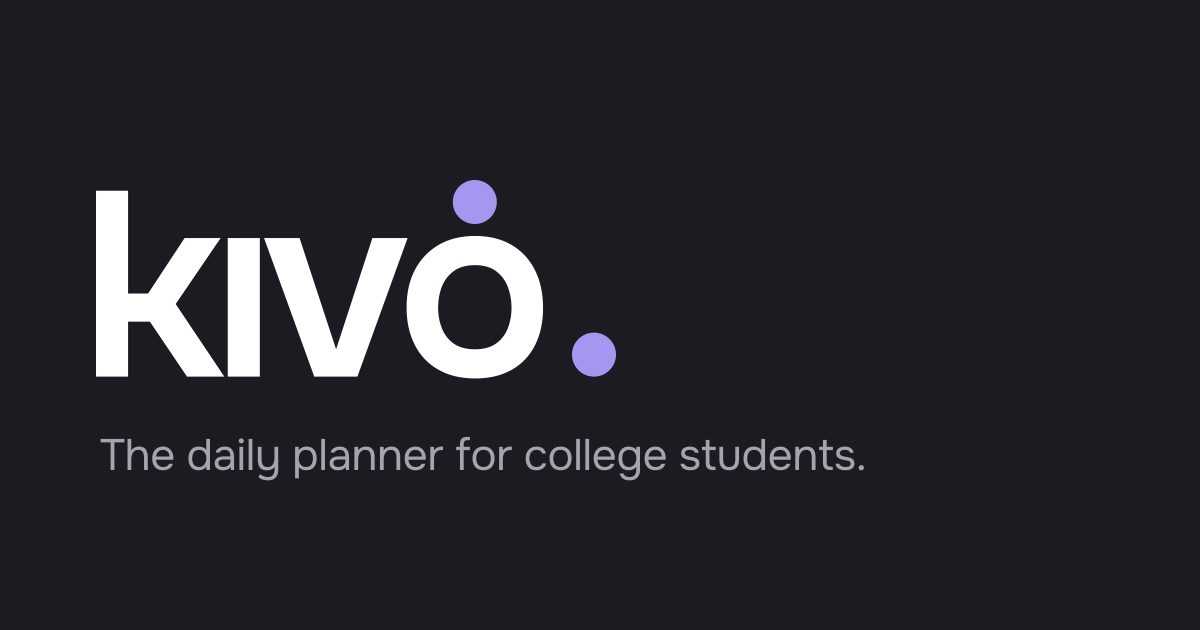
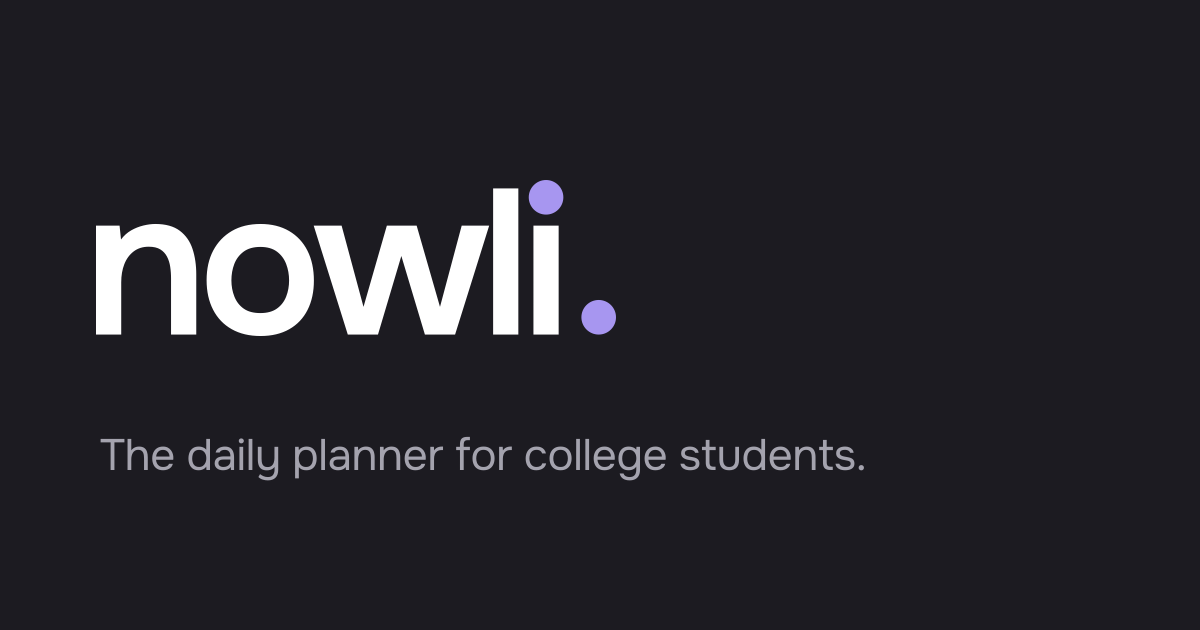
Update design assets and sound generation for Nowli branding
- Changed sound generation comments to reflect Nowli branding instead of Kivo.
- Updated splash icon images (PNG and SVG) to new design specifications.
- Modified wordmark SVG files and JSON to accommodate new dimensions and branding.
- Adjusted wordmark TypeScript definitions to match updated SVG paths and dimensions.
- Updated WORDMARK_RATIO constant to reflect new width of the wordmark.

Changed region(s): [[0.0617, 0.2714, 0.5242, 0.6032]]

diff --git a/packages/tokens/src/wordmark.ts b/packages/tokens/src/wordmark.ts
@@ -1,11 +1,11 @@
 // Generated from Onest SemiBold outlines (scratch script); regenerate if the typeface or name changes.
 // Coordinates are font units, y-down. Baseline is y = 0. The tittle sits where Onest's own i puts it.
 export const wordmark = {
-  viewBox: [59.0, -747.7, 1977.4, 754.7] as [number, number, number, number],
-  /** The letters k ı v o as one path. */
-  letters: "M59.0 0V-707H181.0V-316H257.0L396.0 -527H533.0L362.0 -276L547.0 0H405.0L264.0 -209H181.0V0Z M560.0 0V-527H682.0V0Z M889.0 0 698.0 -527H833.0L972.0 -104L1110.0 -527H1244.0L1053.0 0Z M1501.0 7Q1420.0 7 1361.5 -26.0Q1303.0 -59 1271.5 -120.0Q1240.0 -181 1240.0 -263Q1240.0 -346 1272.0 -406.5Q1304.0 -467 1362.0 -501.0Q1420.0 -535 1501.0 -535Q1581.0 -535 1639.0 -501.0Q1697.0 -467 1728.0 -405.5Q1759.0 -344 1759.0 -261Q1759.0 -180 1728.5 -119.5Q1698.0 -59 1640.0 -26.0Q1582.0 7 1501.0 7ZM1500.0 -104Q1550.0 -104 1580.5 -126.0Q1611.0 -148 1625.0 -184.0Q1639.0 -220 1639.0 -262Q1639.0 -304 1625.0 -341.0Q1611.0 -378 1580.5 -401.0Q1550.0 -424 1500.0 -424Q1450.0 -424 1419.0 -401.0Q1388.0 -378 1374.0 -341.5Q1360.0 -305 1360.0 -262Q1360.0 -220 1374.5 -183.5Q1389.0 -147 1419.5 -125.5Q1450.0 -104 1500.0 -104Z",
+  viewBox: [59.0, -747.7, 2515.4, 754.7] as [number, number, number, number],
+  /** The letters n o w l ı as one path. */
+  letters: "M59.0 0V-527H173.0L180.0 -460Q201.0 -488 229.0 -504.0Q257.0 -520 288.0 -527.5Q319.0 -535 346.0 -535Q421.0 -535 464.5 -502.0Q508.0 -469 526.0 -414.0Q544.0 -359 544.0 -291V0H422.0V-271Q422.0 -300 418.0 -327.5Q414.0 -355 402.5 -377.0Q391.0 -399 370.0 -412.0Q349.0 -425 314.0 -425Q271.0 -425 241.0 -402.0Q211.0 -379 196.0 -340.5Q181.0 -302 181.0 -253V0Z M855.0 7Q774.0 7 715.5 -26.0Q657.0 -59 625.5 -120.0Q594.0 -181 594.0 -263Q594.0 -346 626.0 -406.5Q658.0 -467 716.0 -501.0Q774.0 -535 855.0 -535Q935.0 -535 993.0 -501.0Q1051.0 -467 1082.0 -405.5Q1113.0 -344 1113.0 -261Q1113.0 -180 1082.5 -119.5Q1052.0 -59 994.0 -26.0Q936.0 7 855.0 7ZM854.0 -104Q904.0 -104 934.5 -126.0Q965.0 -148 979.0 -184.0Q993.0 -220 993.0 -262Q993.0 -304 979.0 -341.0Q965.0 -378 934.5 -401.0Q904.0 -424 854.0 -424Q804.0 -424 773.0 -401.0Q742.0 -378 728.0 -341.5Q714.0 -305 714.0 -262Q714.0 -220 728.5 -183.5Q743.0 -147 773.5 -125.5Q804.0 -104 854.0 -104Z M1277.0 0 1112.0 -527H1247.0L1353.0 -134L1466.0 -527H1610.0L1723.0 -134L1828.0 -527H1961.0L1796.0 0H1650.0L1536.0 -380L1423.0 0Z M1980.0 0V-707H2102.0V0Z M2175.0 0V-527H2297.0V0Z",
   /** The tittle of the i and the closing period. */
-  dots: [{"cx": 1499.5, "cy": -664.0, "r": 83.7}, {"cx": 1952.7, "cy": -83.7, "r": 83.7}] as { cx: number; cy: number; r: number }[],
+  dots: [{"cx": 2236.0, "cy": -664.0, "r": 83.7}, {"cx": 2490.7, "cy": -83.7, "r": 83.7}] as { cx: number; cy: number; r: number }[],
 } as const;
 
-export const WORDMARK_RATIO = 1977.4 / 754.7;
+export const WORDMARK_RATIO = 2515.4 / 754.7;
